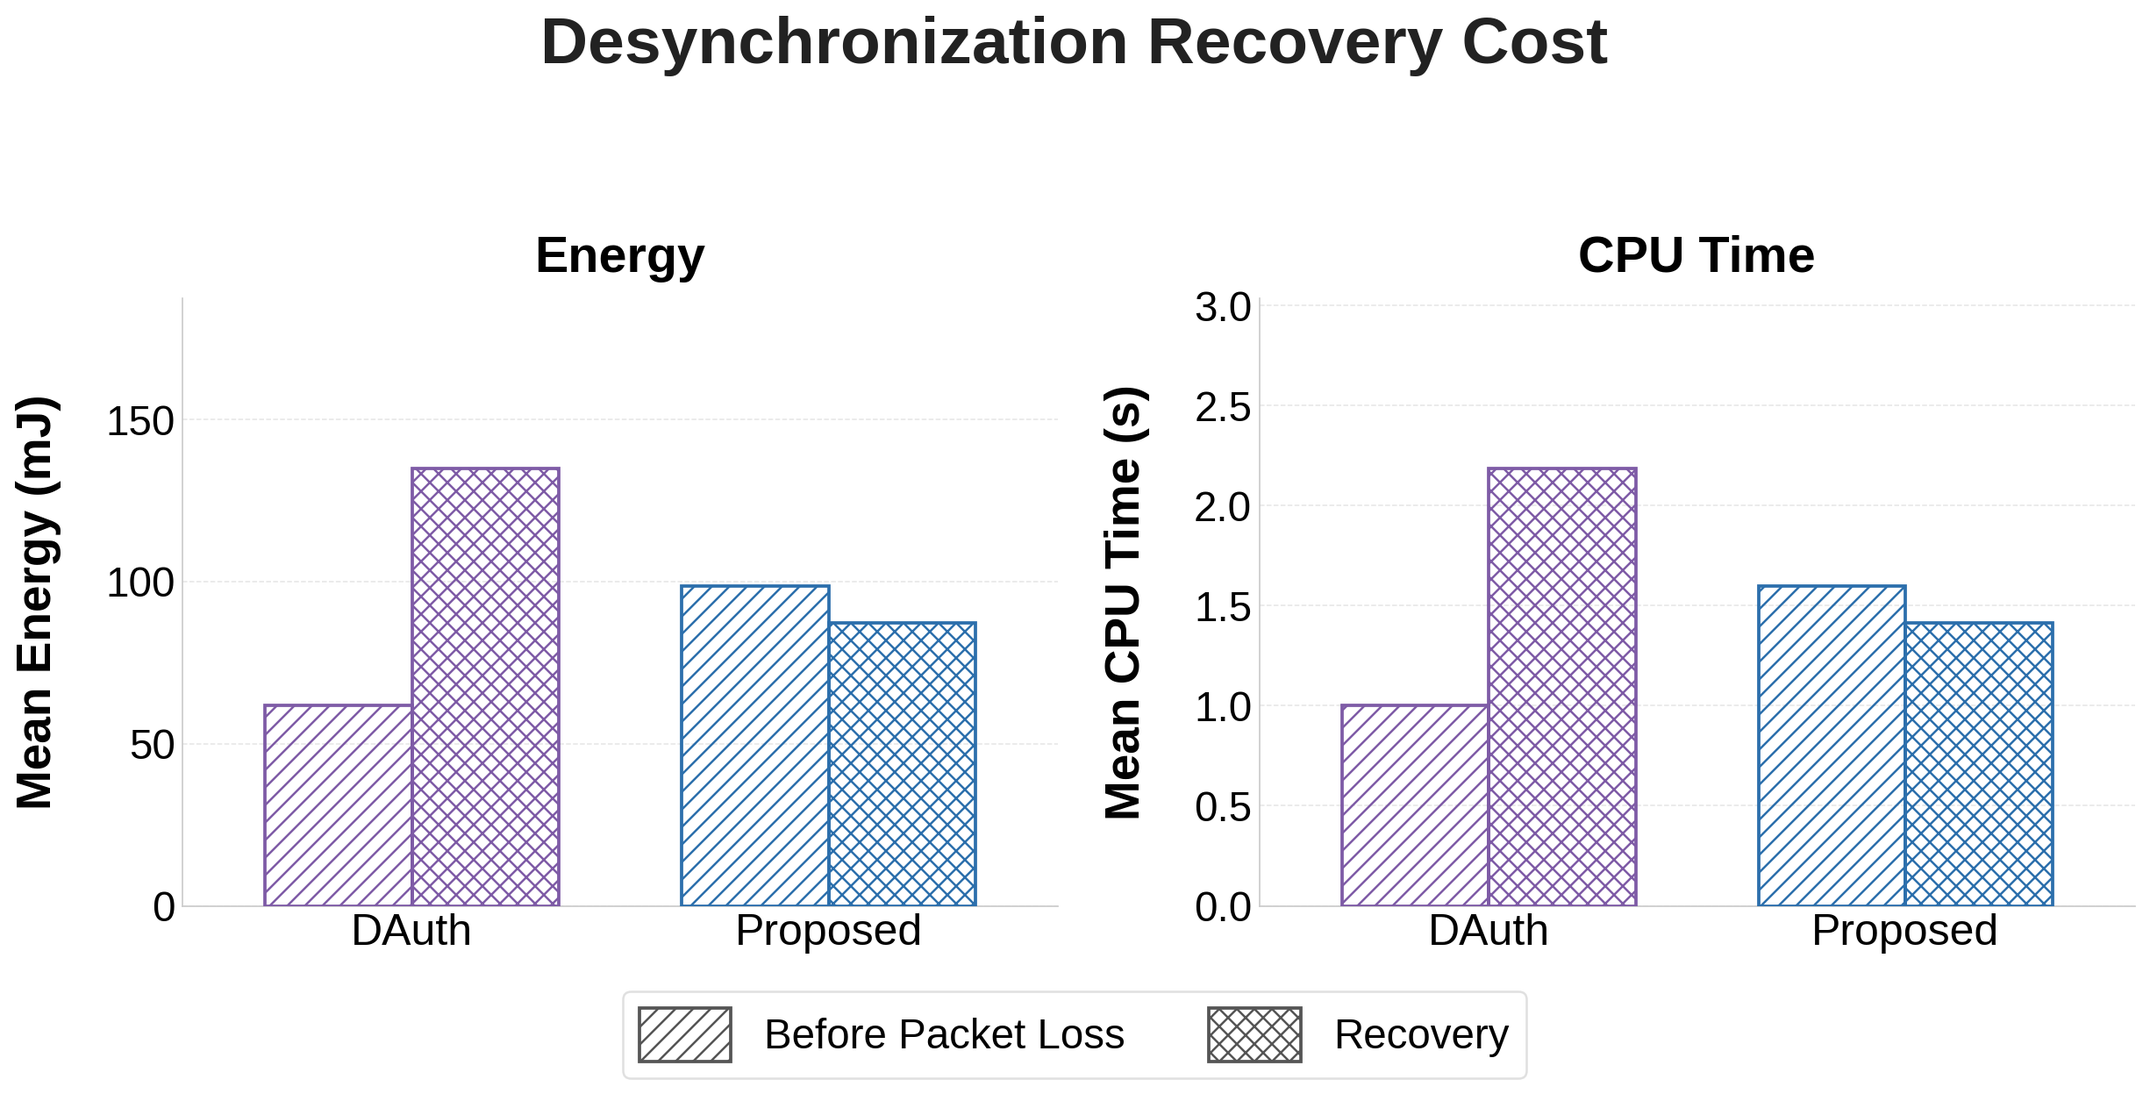
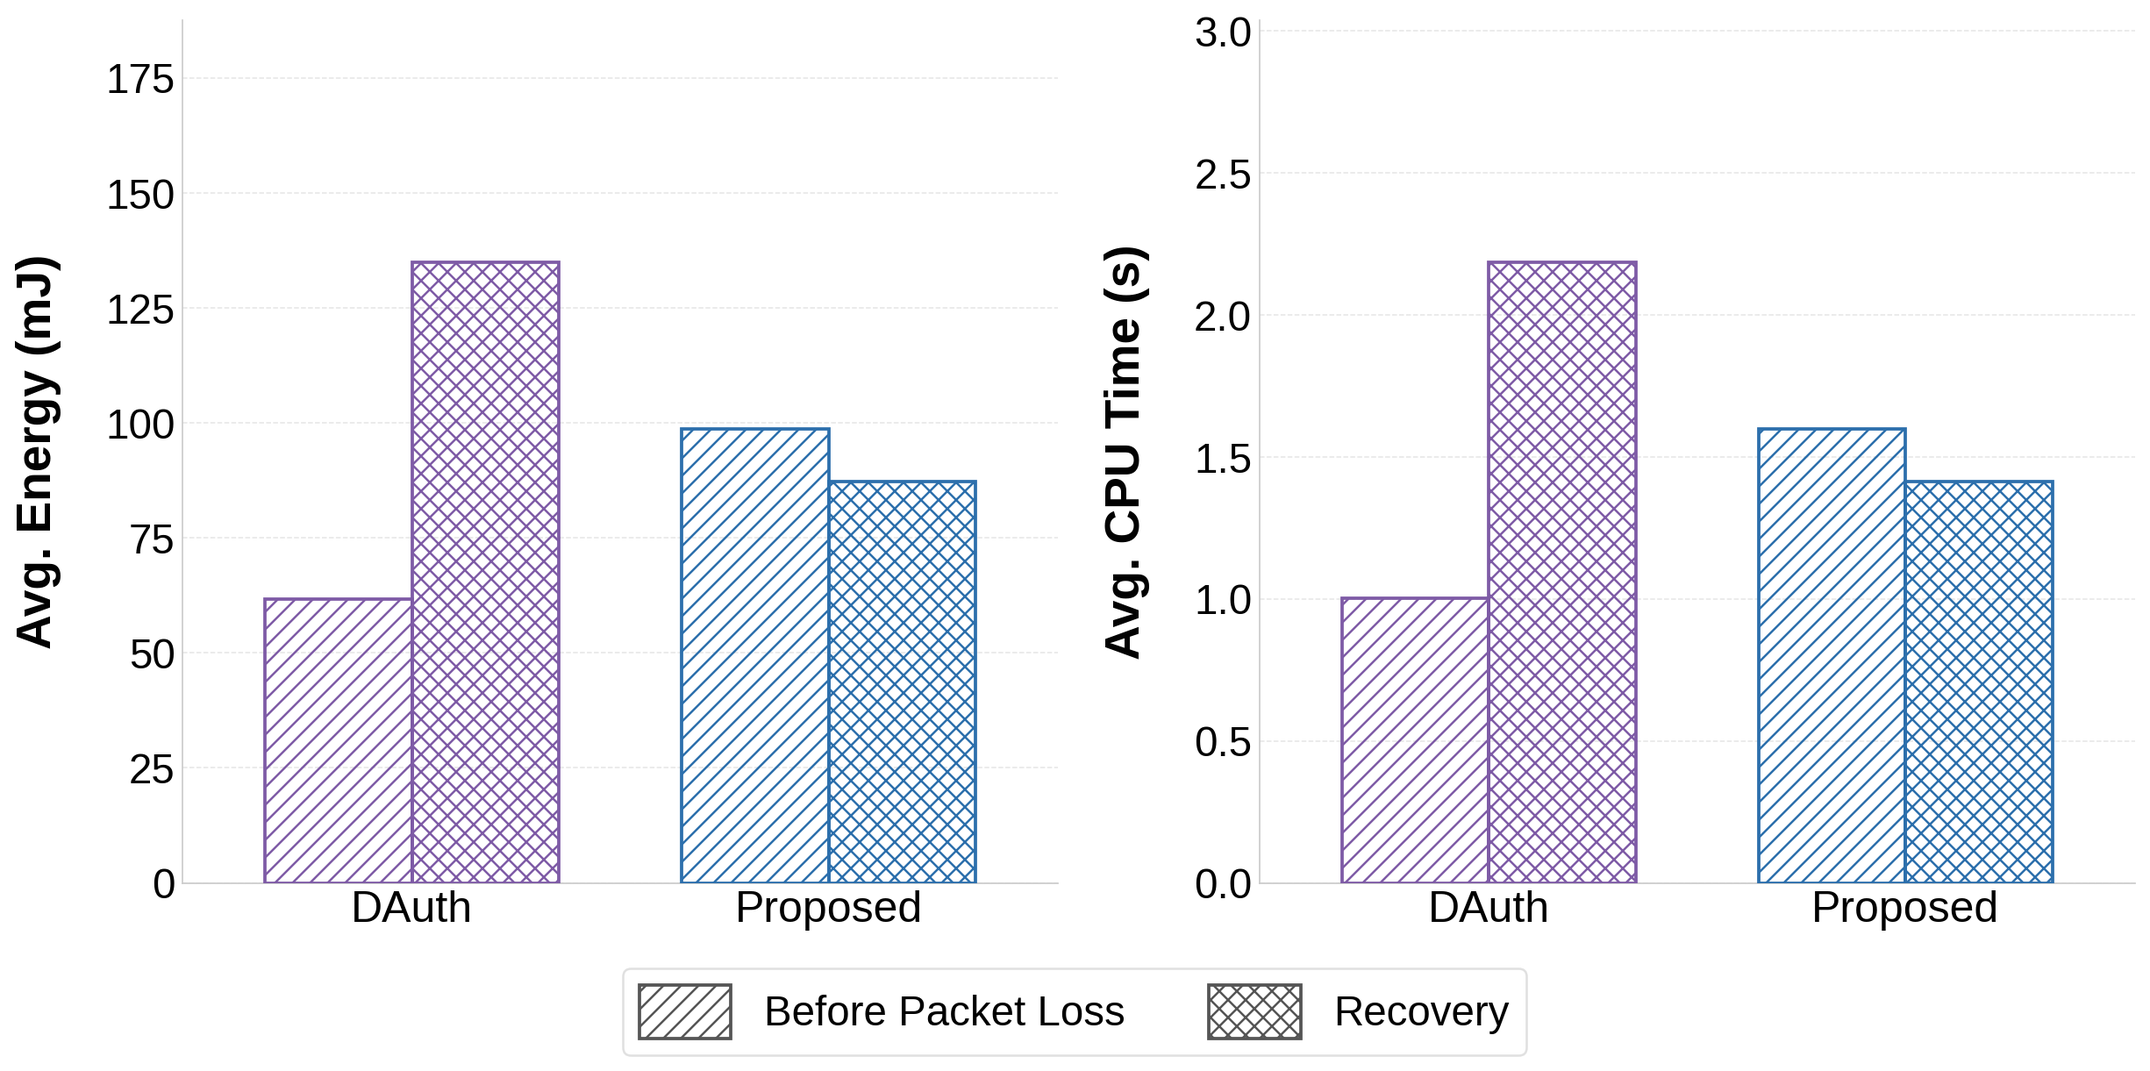
Theoretical analysis: replace Zheng/He with DAuth; update charts y-axes; add HW setup figure
- Replace Zheng et al. and He et al. with DAuth in all four theoretical
  analysis tables (comp_enroll, comp_auth, comm_enroll, comm_auth) and
  update surrounding prose accordingly
- Fix hardware section: Linux → Windows laptop; add RPI_HW.jpeg testbed figure
- Add desync recovery justification (why only DAuth compared)
- Y-axis labels: Total → Avg. across AS-variation, network-variation,
  and desync-bar charts (plot scripts + regenerated PNGs)
- Caption updates: AS-variation figure caption tightened

diff --git a/Paper/paper_revised_anonymity.tex b/Paper/paper_revised_anonymity.tex
@@ -743,7 +743,7 @@ efficiency of an authentication scheme. Pycrypto, a Python cryptographic library
 in a Windows system to measure the computational cost of core cryptographic functions,
 such as SHA-256 ($T_{\mathsf{hash}}$), AES Encryption/Decryption ($T_{\mathsf{aes}}$),
 and Random generation ($T_{\mathsf{rand}}$). The PUF operation cost ($T_{\mathsf{puf}}$)
-is taken from prior benchmarks on the same platform~\cite{zheng2022puf}.
+is taken from prior benchmarks on the same platform~\cite{das2026comsnets}.
 
 To execute the node enrolment phase (Figure~\ref{fig:enrolment}):
 \begin{itemize}
@@ -757,9 +757,11 @@ To execute the node enrolment phase (Figure~\ref{fig:enrolment}):
 Hence, the total computational cost incurred per node enrolment amounts to
 $2T_{\mathsf{puf}} + 2T_{\mathsf{hash}} + 4T_{\mathsf{rand}}$.
 As shown in Table~\ref{tab:comp_enroll}, the proposed scheme achieves an enrolment cost of
-0.18\,ms. It competes well with Zhou et al.~\cite{zhou2024auth} (0.13\,ms) while
-additionally providing PUF-based secret binding and pseudonym initialisation, both of
-which are absent from those schemes.
+0.18\,ms, incurring a marginal overhead of 0.03\,ms over DAuth~\cite{das2026comsnets}
+(0.15\,ms). This cost is directly attributable to the additional hash operation for
+pseudonym initialisation — a security feature absent from DAuth. The scheme remains
+competitive with Zhou et al.~\cite{zhou2024auth} (0.13\,ms), while additionally providing
+PUF-based secret binding and pseudonym initialisation at registration.
 
 \begin{table}[H]
   \centering
@@ -774,8 +776,7 @@ which are absent from those schemes.
     \midrule
     LAAKA~\cite{ali2024laaka}      & $3T_\mathsf{hash}$ & 0.11 \\
     Zhou et al.~\cite{zhou2024auth}      & $T_\mathsf{puf}+2T_\mathsf{hash}+3T_\mathsf{rand}$ & 0.13 \\
-    Zheng et al.~\cite{zheng2022puf}      & $2T_\mathsf{puf}+8T_\mathsf{hash}+4T_\mathsf{aes}+5T_\mathsf{rand}$ & 0.69 \\
-    He~et~al.~\cite{he2023lightweight}  & $4T_\mathsf{hash}+T_\mathsf{aes}+T_\mathsf{rand}$ & 0.23 \\
+    DAuth~\cite{das2026comsnets}           & $2T_\mathsf{puf}+1T_\mathsf{hash}+4T_\mathsf{rand}$ & 0.15 \\
     \textbf{Proposed}        & $2T_\mathsf{puf}+2T_\mathsf{hash}+4T_\mathsf{rand}$ & \textbf{0.18} \\
     \bottomrule
   \end{tabular}\\[3pt]
@@ -801,15 +802,14 @@ computational efficiency is essential. In the proposed scheme, $D$ and $AS$
 
 This leads to the total computational cost of the authentication and key exchange phase
 amounting to $2T_{\mathsf{puf}} + 11T_{\mathsf{hash}} + 2T_{\mathsf{aes}} + 1T_{\mathsf{rand}}$.
-In Table~\ref{tab:comp_auth}, the proposed scheme is said to have a computational cost of
-0.67\,ms. Its computational efficiency surpasses that of
-He~et~al.~\cite{he2023lightweight} (1.74\,ms), whose ECC scalar multiplication
-operations incur significantly higher cost on constrained platforms. Due to the incorporation of a PUF
-challenge--response pair and an AES-encrypted gateway token — enabling PUF-based
-authentication and decoupled authentication server selection — the scheme incurs a modest overhead
-over LAAKA~\cite{ali2024laaka} (0.56\,ms) and Zhou et al.~\cite{zhou2024auth} (0.53\,ms), which
-neither employ PUF-based authentication, a decoupled distributed authentication server, nor dual-state
-desynchronisation recovery.
+In Table~\ref{tab:comp_auth}, the proposed scheme achieves a computational cost of
+0.67\,ms. It incurs a modest overhead of 0.11\,ms over DAuth~\cite{das2026comsnets}
+(0.56\,ms), directly attributable to three additional hash operations for pseudonym
+computation, dual-state lookup, and pseudonym rotation — the computational price of
+anonymity and desynchronisation resilience. The proposed scheme similarly incurs a modest
+overhead over LAAKA~\cite{ali2024laaka} (0.56\,ms) and Zhou et al.~\cite{zhou2024auth}
+(0.53\,ms), which neither employ PUF-based authentication nor a decoupled distributed
+authentication server.
 
 \begin{table}[H]
   \centering
@@ -824,13 +824,13 @@ desynchronisation recovery.
     \midrule
     LAAKA~\cite{ali2024laaka}      & $16T_\mathsf{hash}$ & 0.56 \\
     Zhou et al.~\cite{zhou2024auth}      & $15T_\mathsf{hash}$ & 0.53 \\
-    Zheng et al.~\cite{zheng2022puf}      & $2T_\mathsf{puf}+6T_\mathsf{hash}+4T_\mathsf{aes}+5T_\mathsf{rand}$ & 0.67 \\
-    He~et~al.~\cite{he2023lightweight}  & $11T_\mathsf{hash}+5T_\mathsf{aes}+2T_\mathsf{ecc}$ & 1.74 \\
+    DAuth~\cite{das2026comsnets}           & $2T_\mathsf{puf}+8T_\mathsf{hash}+2T_\mathsf{aes}+1T_\mathsf{rand}$ & 0.56 \\
     \textbf{Proposed}        & $2T_\mathsf{puf}+11T_\mathsf{hash}+2T_\mathsf{aes}+T_\mathsf{rand}$ & \textbf{0.67} \\
     \bottomrule
   \end{tabular}\\[3pt]
   \scriptsize
-  $T_\mathsf{ecc}$=0.461\,ms (scaled from He~et~al.~\cite{he2023lightweight} hardware ratios).
+  Benchmark (avg.\ 100 iterations): $T_\mathsf{rand}$=0.0018\,ms, $T_\mathsf{puf}$=0.0522\,ms,
+  $T_\mathsf{hash}$=0.0353\,ms, $T_\mathsf{aes}$=0.0867\,ms.
 \end{table}
 
 \subsubsection{Communication Cost}
@@ -851,11 +851,13 @@ challenge $c_D$ (256\,bits) and a session-based random $m_D$ (256\,bits) to $D$.
 third communication takes place from $D$ to $AS$ in the form of a unique secret $y_D$
 (256\,bits), a PUF response $R_D$ (256\,bits), and a reverse challenge
 $c_{AS\text{-}D}$ (256\,bits). Thus, the total communication cost per enrolment is
-1312\,bits as presented in Table~\ref{tab:comm_enroll}. It outperforms schemes such
-as LAAKA~\cite{ali2024laaka} (2592\,bits) and Zheng et al.~\cite{zheng2022puf} (1600\,bits), while remaining
-competitive with Zhou et al.~\cite{zhou2024auth} (1344\,bits) and He~et~al.~\cite{he2023lightweight} (1280\,bits).
-Unlike those schemes, the proposed scheme binds device enrolment to a PUF-derived secret and initialises
-the pseudonym at registration, adding security guarantees at a modest communication cost.
+1312\,bits as presented in Table~\ref{tab:comm_enroll}. It outperforms
+LAAKA~\cite{ali2024laaka} (2592\,bits) and Zhou et al.~\cite{zhou2024auth}
+(1344\,bits), and matches DAuth~\cite{das2026comsnets} (1312\,bits) exactly, demonstrating
+that pseudonym initialisation adds no communication overhead over the base scheme. Unlike
+LAAKA and Zhou, the proposed scheme binds device enrolment to a PUF-derived secret and
+initialises the pseudonym at registration, adding security guarantees without increasing
+communication cost.
 
 \begin{table}[H]
   \centering
@@ -870,8 +872,7 @@ the pseudonym at registration, adding security guarantees at a modest communicat
     \midrule
     LAAKA~\cite{ali2024laaka}      & 3 & 2592 \\
     Zhou et al.~\cite{zhou2024auth}      & 5 & 1344 \\
-    Zheng et al.~\cite{zheng2022puf}      & 3 & 1600 \\
-    He~et~al.~\cite{he2023lightweight}  & 2 & 1280 \\
+    DAuth~\cite{das2026comsnets}           & 3 & 1312 \\
     \textbf{Proposed}        & 3 & \textbf{1312} \\
     \bottomrule
 \end{tabular}\\[3pt]
@@ -891,8 +892,7 @@ the pseudonym at registration, adding security guarantees at a modest communicat
     \midrule
     LAAKA~\cite{ali2024laaka}      & 3 & 2400 \\
     Zhou et al.~\cite{zhou2024auth}      & 4 & 2464 \\
-    Zheng et al.~\cite{zheng2022puf}      & 3 & 1600 \\
-    He~et~al.~\cite{he2023lightweight}  & 3 & 1120 \\
+    DAuth~\cite{das2026comsnets}           & 3 & 928 \\
     \textbf{Proposed}        & 3 & \textbf{1376} \\
     \bottomrule
 \end{tabular}
@@ -907,10 +907,6 @@ third communication takes place from $AS$ to $GW$, consisting of the updated pse
 $\mathit{PID}_{\mathrm{new}}$ (256\,bits), the identity $ID_{AS}$ (32\,bits), and the
 encrypted gateway token $\mathsf{auth\_token}_D$ (256\,bits). Thus, the total
 communication cost becomes 1376\,bits, as presented in Table~\ref{tab:comm_auth}.
-He~et~al.~\cite{he2023lightweight} achieves a lower figure (1120\,bits) for a simpler
-two-party IoT-to-server protocol, whereas the proposed scheme supports multihop mesh
-networks with a decoupled distributed authentication server, desynchronisation recovery, and PUF-based
-authentication — features that account for the additional overhead.
 DAuth~\cite{das2026comsnets} requires 928\,bits, with the 448-bit increase in the proposed
 scheme directly reflecting the widening of the device identifier from a 32-bit $ID_D$ to
 a 256-bit pseudonym $\mathit{PID}$, the direct cost of adding device anonymity to all
@@ -922,16 +918,28 @@ open-channel communications.
 \subsection{Simulation-Based Performance Analysis}
 \label{sec:sim}
 
-A simulation-based performance evaluation has been conducted to detect the efficiency of
-the proposed authentication scheme using the COOJA simulator within the Contiki-NG
-framework. Three complementary studies are reported. The first is an overall per-device
-comparison of the proposed scheme against LAAKA~\cite{ali2024laaka} and
-Zhou et al.~\cite{zhou2024auth} in a fixed 100-node network comprising 1 gateway/root, 79
-authentication servers (2 in use), and 20 newly joined devices. The second is an
-authentication server pool-size study that varies the number of authentication servers
-from 2 to 10. The third is a
-network scalability study that grows the total node count across $N \in \{30, 50, 80, 100\}$. All results are averaged over five independent
-random seeds. Table~\ref{tab:simparams} elaborates the common simulation parameters.
+Simulation-based performance analysis is important as it evaluates the proposed
+authentication scheme by considering the impact of message communication on performance
+metrics, such as energy and CPU time, in a multihop network. A comprehensive
+simulation-based performance analysis is performed, assessing the performance efficiency
+of the proposed scheme against DAuth~\cite{das2026comsnets}, LAAKA~\cite{ali2024laaka},
+and Zhou et al.~\cite{zhou2024auth}. The simulation is executed in the COOJA simulator
+using Cooja mote inside the Contiki-NG environment, where the CoAP protocol is utilized
+for the communication. A 100-node network is randomly deployed as the simulation
+scenario. The simulation is repeated ten times with random seeds. The propagation model in the simulation
+is UDGM (Distance Loss). In this network, 80 nodes are deployed as CoAP servers. One of
+these 80 nodes is considered to be the gateway or the root, depending on its role, which
+varies across the authentication schemes implemented. Out of the remaining 79 CoAP
+servers, a subset operates as authenticators. The other 20 nodes of the network are
+considered to be newly joined devices, functioning as CoAP clients. This consideration
+is conducted to introduce simultaneous authentication requests on the authenticator
+without congesting the network. Three complementary studies are conducted. The first is
+an overall per-device comparison with two authentication servers active. The second is an
+authentication server pool-size study that varies the number of active authentication
+servers from 2 to 10. The third is a network scalability study that grows the total node
+count across $N \in \{30, 50, 80, 100, 120\}$. All results are averaged over ten
+independent random seeds. Table~\ref{tab:simparams} elaborates the common simulation
+parameters.
 
 \begin{table}[H]
   \centering
@@ -966,7 +974,7 @@ authentication servers in use, the proposed scheme demonstrated a consistent adv
 over LAAKA~\cite{ali2024laaka} and Zhou et al.~\cite{zhou2024auth} by achieving a reduction of
 42.8\,\% and 32.4\,\% with respect to per-device energy consumption
 (Figure~\ref{fig:sim_total}a), respectively. Similarly, as shown in
-Figure~\ref{fig:sim_total}(b), a reduction of 42.7\,\% and 32.4\,\% is demonstrated with
+Figure~\ref{fig:sim_total}(b), a reduction of 42.8\,\% and 32.4\,\% is demonstrated with
 respect to per-device CPU time over LAAKA and Zhou et al., respectively. The dominant savings
 arise in the authentication and key exchange phase. Due to the incorporation of fewer
 message exchanges and computationally lightweight hash-XOR operations, the proposed
@@ -979,9 +987,8 @@ separate key-exchange round, whereas the remaining schemes include all three pha
 \begin{figure}[!t]
   \centering
   \includegraphics[width=\columnwidth]{fig_sim_total}
-  \caption{Per-device mean total cost, all phases (for Zhou et al., enrolment and
-           authentication only, as it has no separate key-exchange phase):
-           (a)~energy and (b)~CPU time.}
+  \caption{Per-device Average cost, all phases :
+           (a)~Energy and (b)~CPU time.}
   \label{fig:sim_total}
 \end{figure}
 
@@ -1009,8 +1016,8 @@ authentication server design in the proposed scheme.
   \small (a)\\[5pt]
   \includegraphics[width=0.78\columnwidth]{fig_sim_as_cpu}\\[2pt]
   \small (b)
-  \caption{Total authentication cost vs.\ number of authentication servers (20 devices):
-           (a)~energy and (b)~CPU time.}
+  \caption{Average authentication overhead vs.\ number of active authentication servers
+           (20 devices): (a)~energy and (b)~CPU time.}
   \label{fig:sim_as}
 \end{figure}
 
@@ -1040,8 +1047,8 @@ in comparison to the benchmark schemes.
   \small (a)\\[5pt]
   \includegraphics[width=0.78\columnwidth]{fig_sim_net_cpu}\\[2pt]
   \small (b)
-  \caption{Network scalability: (a)~total energy and
-           (b)~total CPU time vs.\ network size~$N$.}
+  \caption{Network scalability: (a)~Avg. energy and
+           (b)~Avg. CPU time vs.\ network size~$N$.}
   \label{fig:sim_network}
 \end{figure}
 
@@ -1075,6 +1082,12 @@ $Y_{AS\text{-}D}^H$ from the device's unique secret $y_D$, and
 verifying the accumulator using $m_{\mathrm{old}}$, then completing
 a fresh key exchange, all without re-enrolment.
 
+Since the dual-state desynchronisation recovery mechanism is a direct extension
+of DAuth's single-state protocol, only DAuth serves as the meaningful baseline
+for this comparison. LAAKA and Zhou et al.\ employ fundamentally different
+authentication architectures with no equivalent session-state nonce rotation,
+making a like-for-like desynchronisation comparison inapplicable.
+
 Figure~\ref{fig:desync_bar} presents a per-device energy and CPU time
 comparison of a single authentication round under two conditions:
 normal operation (before any packet loss) and recovery (the round
@@ -1099,7 +1112,7 @@ DAuth~\cite{das2026comsnets}.
   \includegraphics[width=\columnwidth]{fig_desync_bar}
   \caption{Per-device desynchronisation recovery cost: (a)~energy and
            (b)~CPU time for a normal round vs.\ a recovery round,
-           averaged over 20 devices and 5 seeds in a 100-node RPL
+           averaged over 20 devices in a 100-node
            network.}
   \label{fig:desync_bar}
 \end{figure}
@@ -1121,12 +1134,22 @@ The implementation considers two Raspberry Pi~4B platforms as IoT nodes.
 One performs the role of the newly joined device, initiating the authentication
 process. The other functions as the authentication server, performing the necessary
 verification for authentication and session key exchange.
-A Linux-based laptop is leveraged as the gateway, handling authentication
+A Windows laptop is leveraged as the gateway, handling authentication
 verification and session key delivery. Each of the three entities maintains
 direct TCP communication with the others. Energy consumption is estimated using
 the active power profile of the Raspberry Pi~4B ($3.8\,\text{W}$) multiplied by
 the measured wall-clock time per authentication round, capturing both
 cryptographic computation and network round-trip latency.
+The physical testbed is shown in Figure~\ref{fig:hw_setup}.
+
+\begin{figure}[!t]
+  \centering
+  \includegraphics[width=\columnwidth,height=0.65\columnwidth,keepaspectratio]{RPI_HW}
+  \caption{Hardware testbed: two Raspberry Pi~4B boards (left: authentication
+           server; right: device) connected via TCP to a Windows laptop
+           (gateway).}
+  \label{fig:hw_setup}
+\end{figure}
 
 As illustrated in Figure~\ref{fig:hw_comparison}(a), DAuth achieves the lowest
 per-round energy of $0.152\,\text{J}$, as it performs no pseudonym operations.
@@ -1154,12 +1177,9 @@ the hardware setup involves only two Raspberry Pi platforms.
 \begin{figure}[!t]
   \centering
   \includegraphics[width=\columnwidth]{fig_hw_comparison}
-  \caption{Hardware-based performance: per-round energy~(a) and CPU time~(b)
-           on Raspberry Pi~4B (Proposed, DAuth, LAAKA, Zhou et al.).
-           DAuth is the base scheme with no pseudonym operations;
-           the proposed scheme adds ${\approx}88\,\%$ overhead over DAuth
-           for anonymity while remaining $52.5\,\%$ and $14.2\,\%$ cheaper
-           than LAAKA and Zhou et al., respectively.}
+  \caption{Hardware-based performance:Avg. Energy~(a) and CPU time~(b)
+           on Raspberry Pi~4B.
+           }
   \label{fig:hw_comparison}
 \end{figure}
 

diff --git a/Scripts/Simulation-Runners/plot_desync_bar.py b/Scripts/Simulation-Runners/plot_desync_bar.py
@@ -172,14 +172,9 @@ def main():
     with plt.rc_context(_STYLE):
         fig, (ax_e, ax_c) = plt.subplots(1, 2, figsize=(14, 7))
         fig.patch.set_facecolor("white")
-        fig.suptitle("Desynchronization Recovery Cost", fontsize=30,
-                     fontweight="bold", color="#222222")
 
-        draw_panel(ax_e, e_stats, "Mean Energy (mJ)")
-        draw_panel(ax_c, c_stats, "Mean CPU Time (s)")
-
-        ax_e.set_title("Energy", fontsize=23, fontweight="bold", pad=12)
-        ax_c.set_title("CPU Time", fontsize=23, fontweight="bold", pad=12)
+        draw_panel(ax_e, e_stats, "Avg. Energy (mJ)")
+        draw_panel(ax_c, c_stats, "Avg. CPU Time (s)")
 
         # Horizontal legend at bottom — bar types, not schemes
         legend_patches = [
@@ -192,7 +187,7 @@ def main():
                    ncol=2, fontsize=19, framealpha=0.9,
                    edgecolor="#dddddd", handlelength=2.2, handleheight=1.6)
 
-        fig.tight_layout(rect=[0, 0.09, 1, 0.92])
+        fig.tight_layout(rect=[0, 0.09, 1, 1.0])
         fig.savefig(OUT_FILE, dpi=180, bbox_inches="tight", facecolor="white")
         plt.close(fig)
 

diff --git a/Scripts/Simulation-Runners/plot_as_variation.py b/Scripts/Simulation-Runners/plot_as_variation.py
@@ -328,7 +328,7 @@ def main():
         data,
         metric_key="total_energy_mj",
         ci_key="ci95_energy_mj",
-        ylabel="Total Energy (mJ)",
+        ylabel="Avg. Energy (mJ)",
         title="Total Authentication Energy vs. Number of Active AS",
         out_path=os.path.join(args.out, "01_as_variation_total_energy.png"),
         unit_label="mJ",
@@ -339,7 +339,7 @@ def main():
         data,
         metric_key="total_cpu_s",
         ci_key="ci95_cpu_s",
-        ylabel="Total CPU Time (s)",
+        ylabel="Avg. CPU Time (s)",
         title="Total Authentication CPU Time vs. Number of Active AS",
         out_path=os.path.join(args.out, "02_as_variation_total_time.png"),
         unit_label="s",

diff --git a/Scripts/Simulation-Runners/plot_network_variation.py b/Scripts/Simulation-Runners/plot_network_variation.py
@@ -508,7 +508,7 @@ def _grouped_bar(metric, ylabel, title, out_path, paper_path=None, show=False):
 def total_energy_grouped_bar(out_path, paper_path=None, show=False):
     _grouped_bar(
         "avg_energy",
-        "Total Energy (mJ)",
+        "Avg. Energy (mJ)",
         "Total Energy Consumption vs Network Size",
         out_path, paper_path, show,
     )
@@ -517,7 +517,7 @@ def total_energy_grouped_bar(out_path, paper_path=None, show=False):
 def total_cpu_grouped_bar(out_path, paper_path=None, show=False):
     _grouped_bar(
         "avg_cpu",
-        "Total CPU Time (s)",
+        "Avg. CPU Time (s)",
         "Total CPU Time vs Network Size",
         out_path, paper_path, show,
     )
